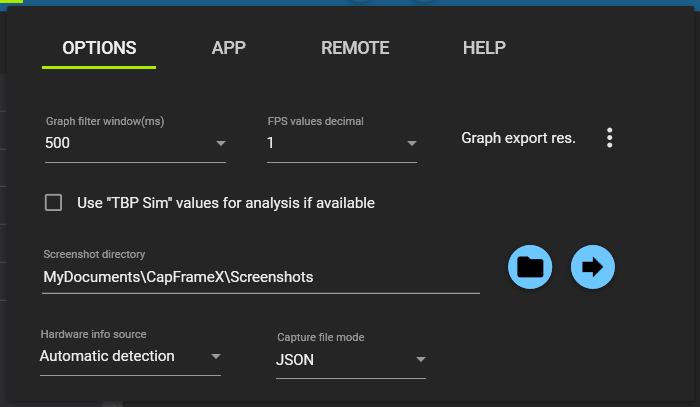
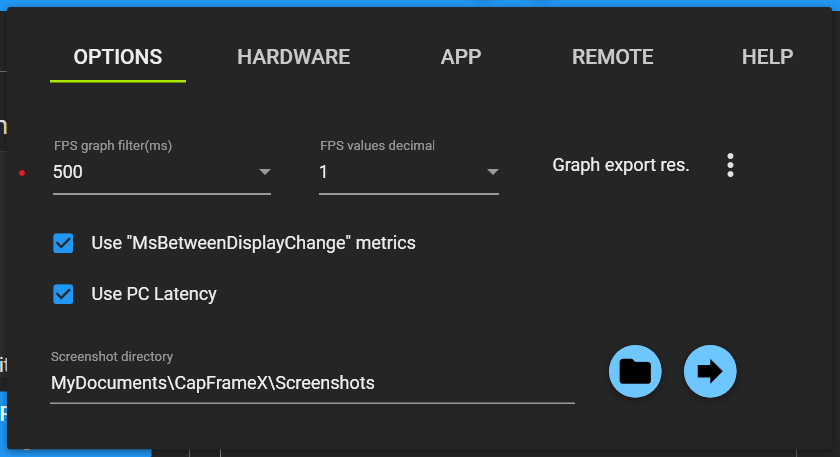
updated README

diff --git a/README.md b/README.md
@@ -9,6 +9,34 @@ If you want to use images of the CapFrameX analysis, you could use the built in 
 # Release
 Download link: https://github.com/DevTechProfile/CapFrameX/releases
 
+# Tips & Tricks
+The following tips address the most common issues reported by users and can help resolve stability, overlay, and capture-related problems efficiently. We recommend working through them in order if you encounter unexpected behavior.
+
+1. **Ensure you are running the latest version**  
+   If you experience application crashes or unstable behavior, verify that you have installed **CapFrameX v1.7.8 Patch 1** or newer. Many known issues have been resolved in this patch.
+
+2. **Reset application settings**  
+   In some cases, corrupted or outdated configuration files may cause problems. Deleting  
+   `%appdata%/CapFrameX/Configuration/AppSettings.json`  
+   will reset CapFrameX to its default settings and often resolves startup or UI-related issues.
+
+3. **Reset overlay configuration files**  
+   If overlay-related problems persist, try deleting the overlay configuration files located at  
+   `%appdata%/CapFrameX/Configuration/OverlayEntryConfiguration_(0/1/2).json`.  
+   These files will be recreated automatically on the next application start.
+
+4. **Restore missing or zero-value overlay entries**  
+   When overlay entries are missing or display constant zero values, open the **Overlay** tab and use the **Reset** button to restore all overlay entries to a valid default state.
+
+5. **Fix incorrect overlay entry order**  
+   If the order of overlay entries appears inconsistent or unintentionally rearranged, use the **Sort** button in the **Overlay** tab to restore a clean and logical ordering.
+
+6. **Resolve frametime anomalies after updates**  
+   In rare cases, existing background capture processes can interfere with CapFrameX after an update. If you encounter frametime issues, close all running **PresentMon** processes before installing or launching CapFrameX v1.7.8.
+
+7. **Avoid conflicts with other monitoring tools**  
+   Applications such as **HWiNFO** or **AIDA64** that implement their own FPS or frametime metrics may conflict with CapFrameX’s capture service, as they also rely on PresentMon-based mechanisms. Disabling overlapping FPS or frametime monitoring features in those tools is strongly recommended when using CapFrameX.
+
 # Capture frametimes
 ![Screenshot](images/02_capture.png)
 
@@ -27,10 +55,6 @@ Download link: https://github.com/DevTechProfile/CapFrameX/releases
 
 # Sensor
 ![Screenshot](images/08b_sensor.png)
-
-# Synchronization (Input lag)
-![Screenshot](images/10_sync_IL.png)
-![Screenshot](images/11_sync_DT.png)
 
 # Report table (Excel)
 ![Screenshot](images/09_report.png)
@@ -61,20 +85,26 @@ Located at the top
 Contains all the different views, a screenshot button, a login button (for additional cloud services), a direct link to the CX website and an options menu. 
 The screenshot button takes a screenshot of the current view excluding the record list.
 
-## Options (Options tab)
+## Settings (Options)
 ![Screenshot](images/01_global_options.png)
 * Graph filter window size = The time period in which the filtered FPS graphs are being averaged (Analysis & Comparison View)
 * FPS values decimals = The number of decimals for the FPS values
-* Use "TBP Sim" sensor values (AMD graphics cards) if available
-* Screenshot directory = The directory in which your screenshots are saved.
-* Hardware info source = What will be written into the capture file as your CPU, GPU and RAM config.  
-  Automatic detection: What's delivered by the system  
-  Custom description: What you write into the text boxes below  
+* Screenshot directory = The directory in which your screenshots are saved. 
+* Use "MsBetweenDisplayChange" metrics. Uses diplay times for metric calculation. Enble this option when using Frame Generation.
+* Use PC Latency. Still beta state. Disable if you encounter frame time issues. Restart CapFameX after changing the option.
 * Capture file mode = How capture files are saved  
   JSON: Standard JSON file  
   JSON + CSV: Additional CSV file that won't be used by CX but can be opened to get a better view on the raw PresentMon data  
 
-## Options (App tab)
+## Settings (Hardware)
+![Screenshot](images/01_global_hardware.png)
+* Primary Graphics Adapter. Select the primary graphics adapter for sensor and overlay management. Auto (default) removes iGPU when it least one dGPU is detected.
+* Hardware info source = What will be written into the capture file as your CPU, GPU and RAM config.  
+  Automatic detection: What's delivered by the system  
+  Custom description: What you write into the text boxes below
+* Use "TBP Sim" sensor values (AMD graphics cards) if available
+
+## Settings (App)
 ![Screenshot](images/01_global_options_app.png)
 * Start with windows & Start minimized = Autostart option and starting in tray
 * "Dark Mode" UI color mode
@@ -179,19 +209,6 @@ These values can be copied to clipboard via context menu, either as min/avg/max 
 ## Report view
 This is a simple view where you can add your records to see all the relevant parameters all at once. You can also just copy them with a right-click to add them into any other program. This is also possible for the graphs and performance parameters in the single record view.
 
-## Synchronization view
-This view shows you an approximated input lag analysis as well as some other synchronization details. 
-
-Tab "Approximated input lag"
-Using various data from PresentMon, we can give a fairly accurate approximation on the input lag. Note that this doesn't include the additional latency from your mouse/keyboard or your monitor.
-For that we've included an offset that you can set yourself depending on your hardware.
-This input lag is shown in the graph and in the distribution below as well as a small bar chart for the upper and lower bounds as well as the expected input lag. 
-
-Tab "Until displayed times" 
-The chart shows the times when a frame was successfully sent to the monitor and being displayed.
-Below the Graph you can see the amount of frames within the valid sync range of your monitor (that you can enter next to it).  
-At the bottom you can see the distribution of the until displayed times and beside it another pie chart which shows the number of dropped frames.
-
 ## Cloud view
 In this view you can upload and download records to easily share them with others.
 
@@ -209,34 +226,12 @@ This doesn't affect any processes you already have on your list. If our online l
 * Report: parameter table
 * Synchronization: display changed times(dc), histogram data
 
-# Using CX monitoring library in your own projects
-The hardware monitoring library is based on [Open Hardware Monitor](https://github.com/openhardwaremonitor/openhardwaremonitor). It is customized and extended with many additional sensors. If you want to use it in your own projects note the following points.
-* Import the projects "OpenHardwareMonitorLib" and "CapFrameX.Monitoring.Contracts"
-* Allow unsafe code in the build options of the project "OpenHardwareMonitorLib"
-* Implement "IProcessService" (see sample code)
-* Install all necessary Nuget packages: 
-
-```packages.config
-<packages>
-  <package id="Microsoft.Extensions.Logging.Abstractions" version="5.0.0" targetFramework="net472" />
-  <package id="Newtonsoft.Json" version="12.0.1" targetFramework="net472" />
-  <package id="Serilog" version="2.9.0" targetFramework="net472" />
-  <package id="System.Buffers" version="4.5.1" targetFramework="net472" />
-  <package id="System.ComponentModel.Annotations" version="4.7.0" targetFramework="net472" />
-  <package id="System.Memory" version="4.5.4" targetFramework="net472" />
-  <package id="System.Numerics.Vectors" version="4.5.0" targetFramework="net472" />
-  <package id="System.Reactive" version="4.3.2" targetFramework="net472" />
-  <package id="System.Runtime.CompilerServices.Unsafe" version="5.0.0" targetFramework="net472" />
-  <package id="System.Threading.Tasks.Extensions" version="4.5.4" targetFramework="net472" />
-  <package id="System.ValueTuple" version="4.5.0" targetFramework="net472" />
-</packages>
-```
-
 Potential conflicts with the Nuget packages can be solved via Package Manger Console. Just type "Update-Package -reinstall". The calling application must run as administrator. See "MonitoringLibTestApp" example code how to integrate the customized library.
 
 # Requirements
-* .NET 4.7.2
-* Microsoft Visual C++ Redistributable Package
+* .NET 9.0 (no installer check, must be intalled manually)
+* .NET 4.7.2 (installer check)
+* Microsoft Visual C++ Redistributable Package (installer check)
 
 # Build requirements
 * MS Visual Studio 2022
@@ -250,6 +245,6 @@ Potential conflicts with the Nuget packages can be solved via Package Manger Con
 * Solution Platform x64
 
 # Dev roadmap
-* Enhancements
+* CapFrameX 2.0 with service-client architecture
 
 
